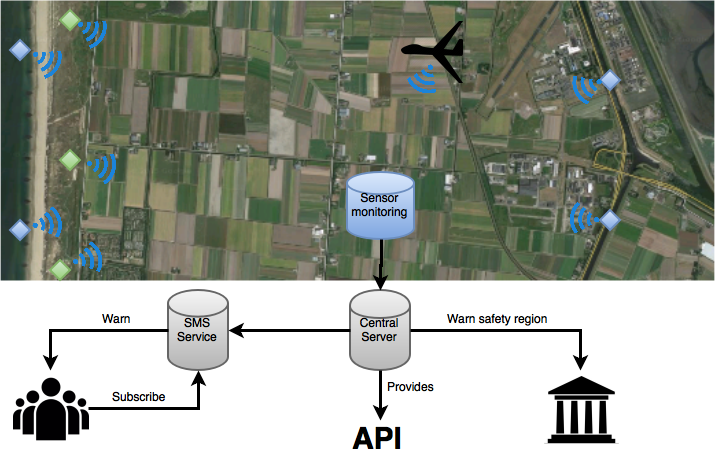
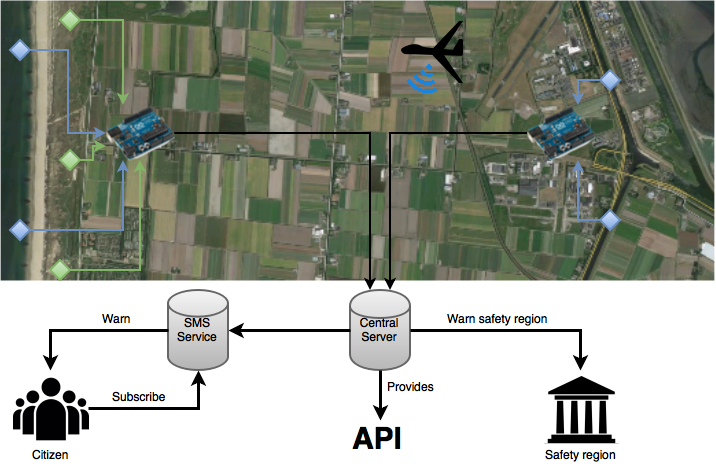
updated architectural vision

diff --git a/3-requirements/architecturalvision.tex b/3-requirements/architecturalvision.tex
@@ -10,9 +10,9 @@
 \newglossaryentry{API}{name=API, description={Application Programming Interface}}
 \newglossaryentry{UAV}{name=UAV, description={Unmanned Aerial Vehicle}}
 
-The \gls{SFM} system consists of multiple parts. These are represented in figure \ref{fig:architectural-vision}. First of all there is the monitoring part. This part monitors the current state of the environment. To achieve this, we need a lot of data, which we obtain using sensors, weather \gls{API}s and \gls{UAV}s. We use sensors to get the current water level of waterways, these water sensors are shown in the figure as blue squares. We also measure the density and structure of dikes, this is done by pressure meters, temperature meters and tilt meters. These are represented as green squares. To see how far a flood has spread we use UAVs. The data that is obtained through all sensors will be send to the central server. Here the information will be processed. The system then determines if there is an imminent flood.
+The \gls{SFM} system consists of multiple parts. These are represented in figure \ref{fig:architectural-vision}. First of all there is the monitoring part. This part monitors the current state of the environment. To achieve this, a lot of data is needed, which the system obtains using sensors, weather \gls{API}s and \gls{UAV}s. We use sensors to get the current water level of waterways, these water sensors are shown in the figure as blue squares. We also measure the density and structure of dikes, this is done by pressure meters, temperature meters and tilt meters. These are represented as green squares. To see how far a flood has spread the system use UAVs. The UAVs are also used to verify sensor data. The data that is obtained through all sensors will be send to the central server. Here the information will be processed. The system then determines if there is an imminent flood.
 
-In case of an imminent flood a warning will be issued to the government and the citizens who live in the threatened area. We do this by issuing a warning to the government. In their turn the government uses their infrastructure to warn the citizens. In the Netherlands this infrastructure consists of a siren system and an SMS-system. Besides this people can also apply for our SMS service. People who are subscribed to this service will receive a text message with more information about the imminent flood. 
+In case of an imminent flood a warning will be issued to the safety region and the citizens who live in the threatened area. We do this by issuing a warning to the safety region. In their turn the safety region can use their infrastructure to warn the citizens. Besides this, citizens can also apply for our SMS service. People who are subscribed to this service will receive a text message when a flood is imminent.
 
-If people want to have more information on an imminent flood, they can always access the API. This API gives relevant raw data about imminent floods. To make a usable interface for the citizens, we want to cooperate with third party developers. These developers could create an application that can guide citizens to a save area.
+If citizens want to have more information on an imminent flood, they can always access the API. This API gives relevant raw data about imminent floods. To make a usable interface for the citizens, cooperation with third party developers is desired. These developers could create an application that can guide citizens to a save area.
 %http://www.waterforum.net/Artikel/PrintArtikel.aspx?ID=9132
